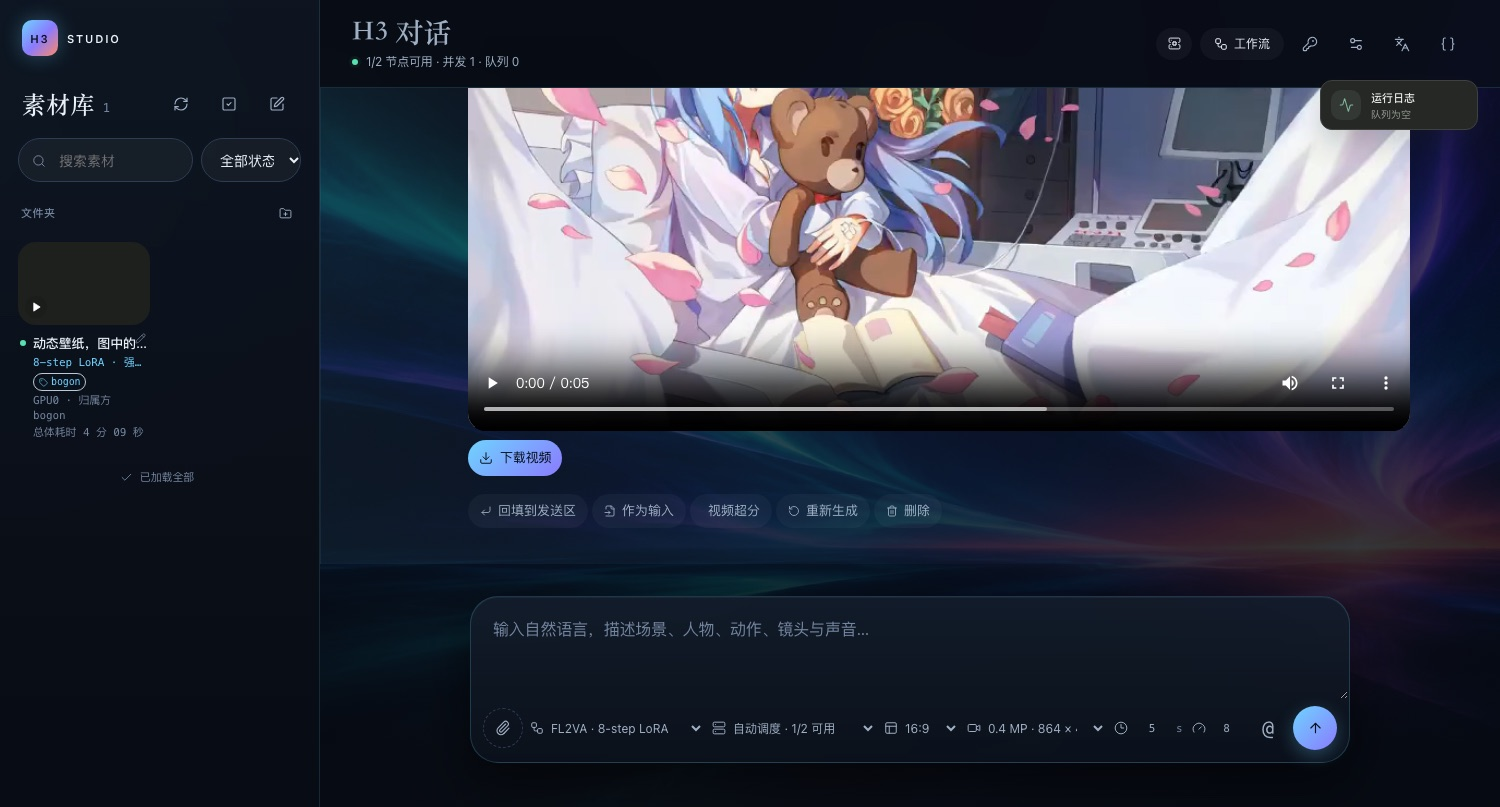
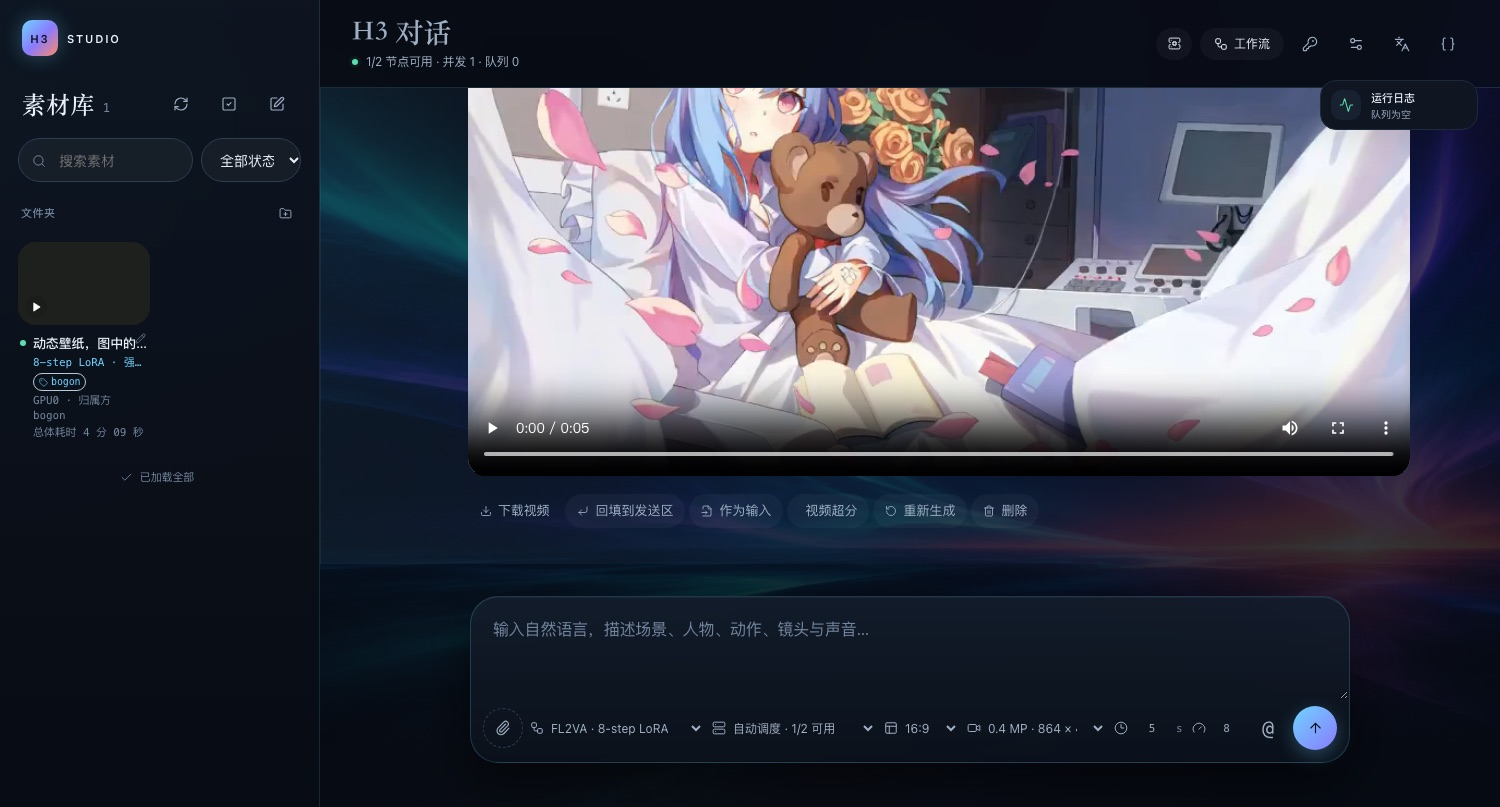
feat: unify media download into the message action row
- remove the separate download link from video, audio, image and file result blocks
- add a download action to every completed message, including peer and proxy jobs
- style it as the same pill chip as the other actions and collapse to an icon on mobile
- refresh workbench screenshots and bump static asset versions

Changed region(s): [[0.3067, 0.0929, 0.9507, 0.5886], [0.3373, 0.6196, 0.7053, 0.6506]]

diff --git a/static/app.js b/static/app.js
@@ -3037,12 +3037,18 @@ function referenceSummary(job) {
   }).join("")}</div>`;
 }
 
+function messageDownloadAction(job) {
+  if (job.status !== "completed" || !job.result_url) return "";
+  const mediaType = jobMediaType(job);
+  return `<a class="message-action-download" href="${escapeHtml(job.result_url)}" download>${icon("download")}<span>${mediaDownloadLabel(mediaType)}</span></a>`;
+}
+
 function messageActions(job) {
   if (job.peer_asset) return job.status === "completed" && job.result_url
-    ? `<div class="message-actions"><button type="button" data-job-action="input" data-job-id="${job.id}">${icon("file-input")}<span>${t("useAsInput")}</span></button>${videoUpscaleMessageAction(job)}</div>`
+    ? `<div class="message-actions">${messageDownloadAction(job)}<button type="button" data-job-action="input" data-job-id="${job.id}">${icon("file-input")}<span>${t("useAsInput")}</span></button>${videoUpscaleMessageAction(job)}</div>`
     : "";
   if (job.request?.remote_proxy) {
-    const buttons = [];
+    const buttons = [messageDownloadAction(job)];
     if (job.status === "completed" && job.result_url) {
       buttons.push(`<button type="button" data-job-action="input" data-job-id="${job.id}">${icon("file-input")}<span>${t("useAsInput")}</span></button>`);
       if (canVideoUpscale(job)) buttons.push(videoUpscaleMessageAction(job));
@@ -3054,7 +3060,7 @@ function messageActions(job) {
     }
     return `<div class="message-actions">${buttons.join("")}</div>`;
   }
-  const buttons = [`<button type="button" data-job-action="reuse" data-job-id="${job.id}">${icon("corner-down-left")}<span>${t("reuse")}</span></button>`];
+  const buttons = [messageDownloadAction(job), `<button type="button" data-job-action="reuse" data-job-id="${job.id}">${icon("corner-down-left")}<span>${t("reuse")}</span></button>`];
   if (job.status === "completed" && job.result_url) {
     buttons.push(`<button type="button" data-job-action="input" data-job-id="${job.id}">${icon("file-input")}<span>${t("useAsInput")}</span></button>`);
     if (canVideoUpscale(job)) buttons.push(videoUpscaleMessageAction(job));
@@ -3095,12 +3101,12 @@ function renderJobExchange(job) {
     assistantBody = `<p class="terminal-state completed">${t("assetDeleted")}</p>`;
   } else if (job.status === "completed") {
     const result = audio
-      ? `<div class="audio-result"><audio controls preload="metadata" src="${job.result_url}"></audio><a href="${job.result_url}" download>${icon("download")}<span>${mediaDownloadLabel(mediaType)}</span></a></div>`
+      ? `<div class="audio-result"><audio controls preload="metadata" src="${job.result_url}"></audio></div>`
       : mediaType === "image"
-        ? `<div class="image-result"><img src="${job.result_url}" alt="${escapeHtml(shortTitle(job))}"><a href="${job.result_url}" download>${icon("download")}<span>${mediaDownloadLabel(mediaType)}</span></a></div>`
+        ? `<div class="image-result"><img src="${job.result_url}" alt="${escapeHtml(shortTitle(job))}"></div>`
         : mediaType === "file"
-          ? `<div class="file-result"><a href="${job.result_url}" download>${icon("download")}<span>${mediaDownloadLabel(mediaType)}</span></a></div>`
-          : `<div class="video-result"><video controls playsinline preload="metadata" src="${job.result_url}"></video><a href="${job.result_url}" download>${icon("download")}<span>${mediaDownloadLabel(mediaType)}</span></a></div>`;
+          ? ""
+          : `<div class="video-result"><video controls playsinline preload="metadata" src="${job.result_url}"></video></div>`;
     assistantBody = `<p class="terminal-state completed">${mediaReadyLabel(mediaType)}</p>${result}`;
   } else {
     assistantBody = `<p class="terminal-state ${job.status}">${escapeHtml(detail || statusLabel(job.status))}</p>`;

diff --git a/static/styles.css b/static/styles.css
@@ -856,8 +856,8 @@ body.sidebar-resizing * { cursor: col-resize !important; }
   .message-avatar { width: 28px; height: 28px; }
   .assistant-message::before { left: -12px; width: 100vw; }
   .message-meta { font-size: var(--text-micro); }
-  .message-actions button { width: 31px; padding: 0; justify-content: center; }
-  .message-actions button span { display: none; }
+  .message-actions button, .message-actions .message-action-download { width: 31px; padding: 0; justify-content: center; }
+  .message-actions button span, .message-actions .message-action-download span { display: none; }
   .composer { width: calc(100% - 14px); margin: 7px auto 8px; }
   .composer textarea { min-height: 66px; max-height: 24dvh; padding: 12px 12px 5px; }
   .composer .lyrics-input { min-height: 92px; }

diff --git a/static/index.html b/static/index.html
@@ -23,11 +23,11 @@
         document.documentElement.dataset.theme = mode;
       })();
     </script>
-    <link rel="stylesheet" href="/assets/styles.css?v=56&rev=66">
-    <link rel="stylesheet" href="/assets/design.css?v=13">
+    <link rel="stylesheet" href="/assets/styles.css?v=57&rev=67">
+    <link rel="stylesheet" href="/assets/design.css?v=14">
     <link rel="stylesheet" href="/assets/skins/skins.css?v=6">
     <script id="lucideScript" src="https://unpkg.com/lucide@0.468.0/dist/umd/lucide.min.js" async></script>
-    <script src="/assets/app.js?v=76&rev=87&upscale=1" defer></script>
+    <script src="/assets/app.js?v=77&rev=88&upscale=1" defer></script>
   </head>
   <body>
     <a class="skip-link" href="#conversationFeed">跳到对话</a>

diff --git a/static/design.css b/static/design.css
@@ -207,16 +207,23 @@ body {
 }
 
 .message-actions { margin-top: 18px; gap: 4px; }
-.message-actions button {
+.message-actions button,
+.message-actions .message-action-download {
+  display: inline-flex;
   height: 34px;
+  align-items: center;
+  gap: 6px;
   padding: 0 12px;
   border: 0;
   border-radius: 999px;
   background: transparent;
   color: var(--muted);
+  cursor: pointer;
   font-size: var(--text-ui);
+  text-decoration: none;
 }
-.message-actions button:hover:not(.regenerate):not(.cancel):not(.danger) {
+.message-actions button:hover:not(.regenerate):not(.cancel):not(.danger),
+.message-actions .message-action-download:hover {
   background: var(--fill-tertiary);
   color: var(--ink);
   box-shadow: none;
